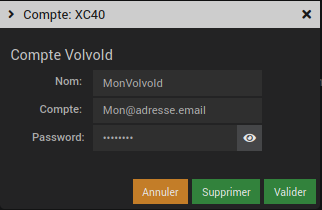
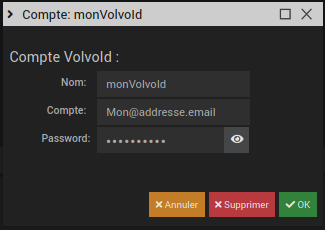
volvocars: doc OTP

diff --git a/fr_FR/volvocars/index.md b/fr_FR/volvocars/index.md
@@ -66,7 +66,25 @@ Saisir le nom du compte puis cliquer sur *OK*
 
 ![Edit account]({{ imagesPath }}/edit_account.png)
 
-Saisir le login et le password du compte VolvoId puis cliquer sur *Valider*
+Saisir le login et le password du compte VolvoId puis cliquer sur *OK*
+
+![Edit OTP]({{ imagesPath }}/edit_otp.png)
+
+Saisir le code que Volvo vous a envoyé par email puis cliquer sur *OK*.
+
+La saisie du code est nécessaire pour l'obtention d'un token qui sera utilisé par le plugin pour
+authentifier ses accès aux API Volvocars. Ce token sera automatiquement renouvelé avant son expiration.
+
+Le token pourra être perdu si
+   + Les véhicules associés à l'account sont tous désactivés durant une certaine période.
+   + Le plugin est désactivé durant plus d'un certain temps.
+   + Jeedom est arrêté durant plus d'un certain temps.
+   + Une sauvegarde de Jeedom est restaurée.
+
+Dans ces cas, il faut ouvrir l'édition de l'account et le sauvegarder. Ceci relancera la procédure
+pour saisir un nouveau code envoyé par email puis obtenir un nouveau token.
+
+Selon la documentation des APIs, un token expiré peut être renouvelé automatiquement jusqu'à 7 jours après sont expiration. Mais je n'ai pas pu le vérifier. Vu que les tokens ont un validité de 30 minutes et sont renouvelés 15 minutes avant leur expiration, un arrêt de moins de 15 minute ne devrait as avoir de conséquence.
 
 ![No car]({{ imagesPath }}/no_car.png)
 
